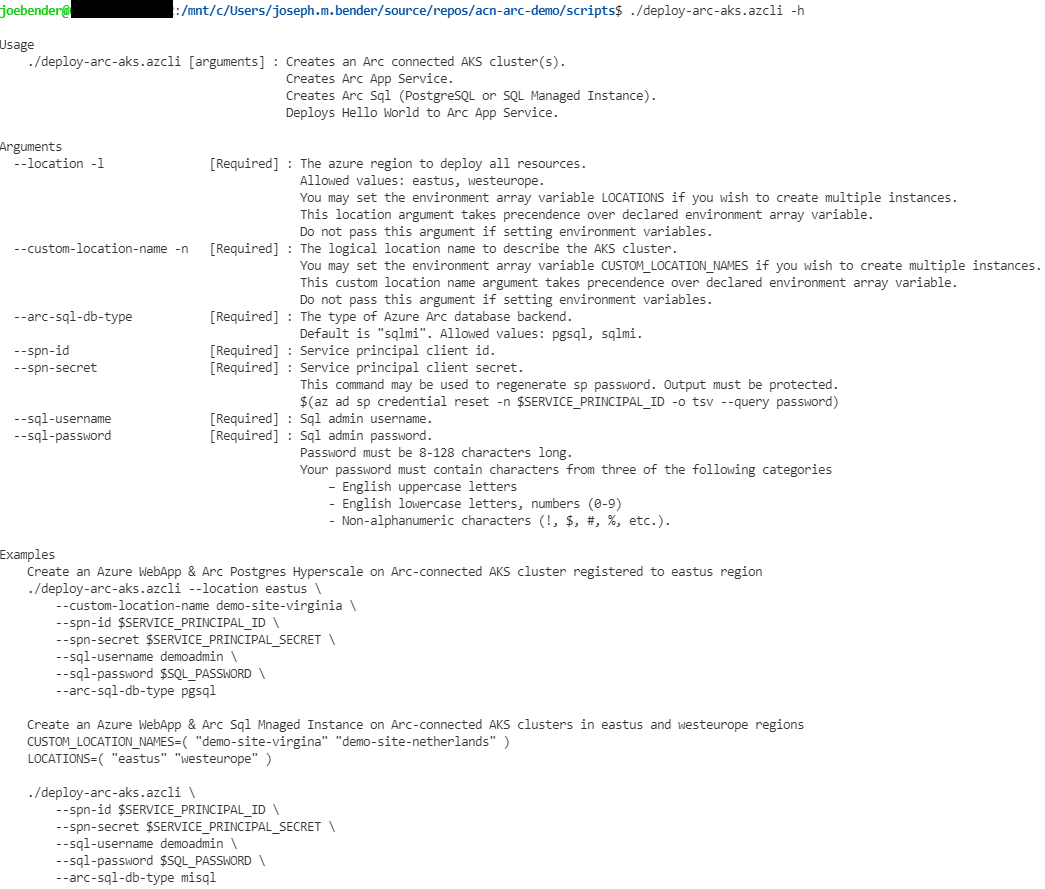
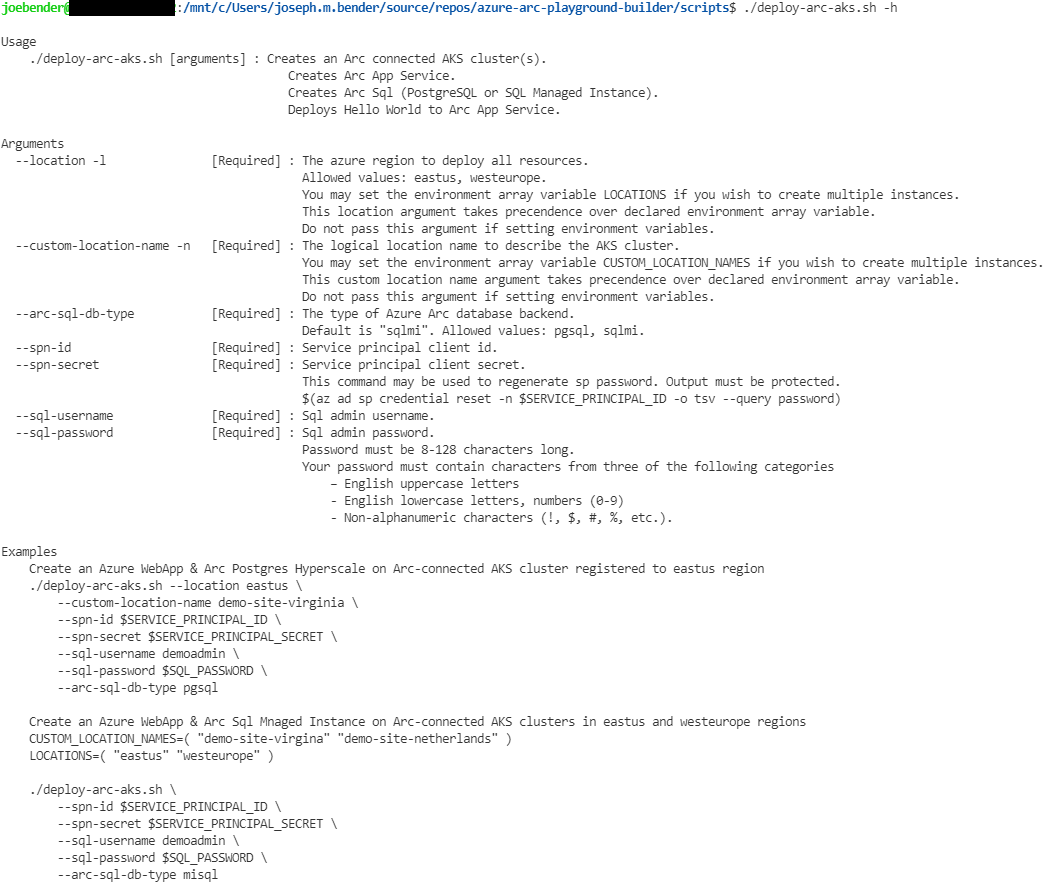
change .azcli to .sh extensions

diff --git a/deploying-arc-appservice-ddk8s.md b/deploying-arc-appservice-ddk8s.md
@@ -1,5 +1,5 @@
 # Deploy Azure App Service on Azure Arc Docker Desktop Single Node Kubernetes
-This document describes how to run the [deploy-arc-ddk8s.azcli](scripts/deploy-arc-ddk8s.azcli) script to accomplish: 
+This document describes how to run the [deploy-arc-ddk8s.sh](scripts/deploy-arc-ddk8s.sh) script to accomplish: 
 - Connect a local Docker Desktop single-node Kubernetes cluster to Azure Arc
 - Install Azure App Service Extensions (Preview)
 - Deploy a Hello World web app to the Azure App Service running in a local K8s cluster on Docker Desktop.
@@ -11,7 +11,7 @@ These instructions are also applicable with a public cloud provider VM having th
 
 ## Prerequisites
 ### Machine setup and WSL2 install on Windows
-- [Set up your Workstation](prerequisites.md)
+- [Set up Workstation](prerequisites.md)
 - If deploying Arc data services, this is the recommended resources WSL2 config. Smaller configurations might be insufficient to run both Arc Data Services + Arc App Service
     ```
     [wsl2]
@@ -27,7 +27,7 @@ These instructions are also applicable with a public cloud provider VM having th
     az upgrade
     ```
 
-- Install the latest version of [yq](https://mikefarah.gitbook.io/yq/#install) on your WSL2 terminal
+- Install the latest version of [yq](https://mikefarah.gitbook.io/yq/#install) on the WSL2 terminal
 
     ```bash
     # yq is only required by this script, not required when targeting an AKS cluster
@@ -37,12 +37,12 @@ These instructions are also applicable with a public cloud provider VM having th
     sudo apt install yq -y
     ```
 
-- Login to your Azure Subscription using the azure-cli on your WSL2 terminal: 
+- Login to the Azure Subscription using the azure-cli on the WSL2 terminal: 
 
     ```bash
     az login
     ```
-- [Optional] If your account has multiple subscriptions, set the desired subscription by running:
+- [Optional] If the Azure account has multiple subscriptions, set the desired subscription by running:
 
     ```bash
     az account set -s <subscription-name-or-guid>
@@ -65,17 +65,17 @@ Execute the script to create directories & mountpoints in the WSL2 terminal.
 ./create-pv-mounts.sh
 ```
 
-### Configure port forwarding to your local machine 
-1. Reserve a static IP for your local machine via your router's admin page
-1. Enable TCP port-forwarding for the static IP on ports: 80, 443, 8081 via your router's admin page. (Note your router admin might look different than the screenshot below) 
+### Configure port forwarding to local machine 
+1. Reserve a static IP for the local machine via the router's admin page
+1. Enable TCP port-forwarding for the static IP on ports: 80, 443, 8081 via the router's admin page. (Note router admin might look different than the screenshot below) 
 
     ![Router Admin](images/staticip-portforwarding-eero-sm.jpg)
-1. Connect your local machine to your local network using the static IP
+1. Connect local machine to local network using the static IP
 
     ![Static IP](images/static-ip-localhost.png)
 
 1. Add inbound and outbound OS firewall rules for ports 80, 443, 8081
-1. Ensure none of the ports (80,443,8081) are reserved on your OS. For Windows - via CMD with Administrative Privileges
+1. Ensure none of the ports (80,443,8081) are reserved on the OS. For Windows - via CMD with Administrative Privileges
     ```bat
     # show the list of reserved ports 
     netsh int ip show excludedportrange protocol=tcp
@@ -88,17 +88,18 @@ Execute the script to create directories & mountpoints in the WSL2 terminal.
 ## Execute the script
 **Complete all prerequisites before proceeding with these steps**
 
-1. Open the [ddk8s.azcli]([ddk8s.azcli](scripts/ddk8s.azcli)) script
 1. Open a WSL2 terminal
 1. Ensure you are logged in the azure-cli
 1. Change directory to the 'scripts' folder where you cloned the repository
 1. Execute the script with required arguments
     ```bash
-    ./deploy-arc-ddk8s.azcli -l eastus --cluster-name my-laptop
+    ./deploy-arc-ddk8s.sh -l eastus --cluster-name my-laptop
     ```
 
 The following arguments are available in the deploy-arc-ddk8s script.
+
 ![Deploy Ddk8s Help](images/ddk8s-help-options.png)
+
 ## Microsoft documentation
 - [Connect an existing Kubernetes cluster to Azure Arc](https://docs.microsoft.com/en-us/azure/azure-arc/kubernetes/quickstart-connect-cluster?tabs=azure-cli)
 - [Set up an Azure Arc Kubernetes cluster to run App Services](https://docs.microsoft.com/en-us/azure/app-service/manage-create-arc-environment)
@@ -112,7 +113,7 @@ The following arguments are available in the deploy-arc-ddk8s script.
 ### Kubernetes services external IP does not include localhost
 Each time before running the Docker Desktop script, ensure to reset the Kubernetes cluster and stop and start (not restart) Docker Desktop. Failure to quit and start Docker Desktop so will cause the envoy Kubernetes service to not receive localhost ip assignment as an ExternalIP. Underlying issue is described [here](https://github.com/docker/for-mac/issues/4903)
 ### Unable to deploy or connect to Azure App Service
-Ensure your port forwarding or network security group allows inbound and outbound traffic on 443, 80, and 8081.
+Ensure port forwarding or network security group allows inbound and outbound traffic on 443, 80, and 8081.
 ### App Service extension build service pods are stuck in pending
 A persistent volume is not created during app service extension helm chart install. 
 The script will create it for you based on the yml file in scripts/appservice-extensions/pv.yml.

diff --git a/deploying-arc-aks.md b/deploying-arc-aks.md
@@ -1,10 +1,10 @@
-# Deploy Azure App Service on Azure Arc Connected AKS with Arc SQL Managed Intance
+# Deploy Azure App Service on Azure Arc Connected AKS with Arc SQL Managed Instance
 
-The [deploy-arc-aks.azcli](scripts/deploy-arc-aks.azcli) script will deploy a Hello World webapp on Azure App Service and an Arc SQL Managed Instance database backend, all on top of an Azure Arc connected AKS cluster. Deploying Arc PostgreSQL Hyperscale is also supported through the --arc-sql-db-type argument.
+The [deploy-arc-aks.sh](scripts/deploy-arc-aks.sh) script will deploy a Hello World webapp on Azure App Service and an Arc SQL Managed Instance database backend, all on top of an Azure Arc connected AKS cluster. Deploying Arc PostgreSQL Hyperscale is also supported through the --arc-sql-db-type argument.
 
 ## Prerequisites
 
-1. [Set up your Workstation](prerequisites.md)
+1. [Set up Workstation](prerequisites.md)
 1. Ensure latest azure-cli version is installed
 
     ```bash
@@ -23,7 +23,7 @@ The [deploy-arc-aks.azcli](scripts/deploy-arc-aks.azcli) script will deploy a He
     SERVICE_PRINCIPAL_ID='<spn id>'
     SERVICE_PRINCIPAL_SECRET='<spn secret>'
     SQL_PASSWORD='<sql admin password>'
-    ./deploy-arc-aks.azcli --location eastus \
+    ./deploy-arc-aks.sh --location eastus \
         --custom-location-name my-site-virginia \
         --spn-id $SERVICE_PRINCIPAL_ID \
         --spn-secret $SERVICE_PRINCIPAL_SECRET \
@@ -33,7 +33,8 @@ The [deploy-arc-aks.azcli](scripts/deploy-arc-aks.azcli) script will deploy a He
     ```
 1. Browse to the hello world webapp
 
-The deploy-arc-aks.azcli script receives the following arguments:
+The [deploy-arc-aks.sh](scripts/deploy-arc-aks.sh) script receives the following arguments:
+
 ![Aks Options](images/aks-help.png)
 
 ## Microsoft Documentation References

diff --git a/prerequisites.md b/prerequisites.md
@@ -8,7 +8,7 @@
 
 ### WSL2 tooling setup
 
-Run these commands in your WSL2 Linux terminal. This script below assumes you're using Windows 10 or Windows 11, with WSL2, and using Ubuntu 20.04, which is the default verison when picking Ubuntu from the Microsoft Store.
+Run these commands in your WSL2 Linux terminal. This script below assumes you're using Windows 10 or Windows 11, with WSL2, and using Ubuntu 20.04, which is the default version when picking Ubuntu from the Microsoft Store.
 
 ```bash
 # Disable WSL2 login message and update packages
@@ -81,7 +81,7 @@ sudo apt-get install -y azdata-cli
   - [Visual Studio IntelliCode](https://marketplace.visualstudio.com/items?itemName=VisualStudioExptTeam.vscodeintellicode)
   - [Prettier - Code formatter](https://marketplace.visualstudio.com/items?itemName=esbenp.prettier-vscode)
 
-## Azure Service Prinicpal setup
+## Azure Service Principal setup
 * Azure Arc Data services require a service principal to publish usage and metric data to Azure
 * It is recommended to scope the service principal to a specific Azure subscription.
 ```bash
